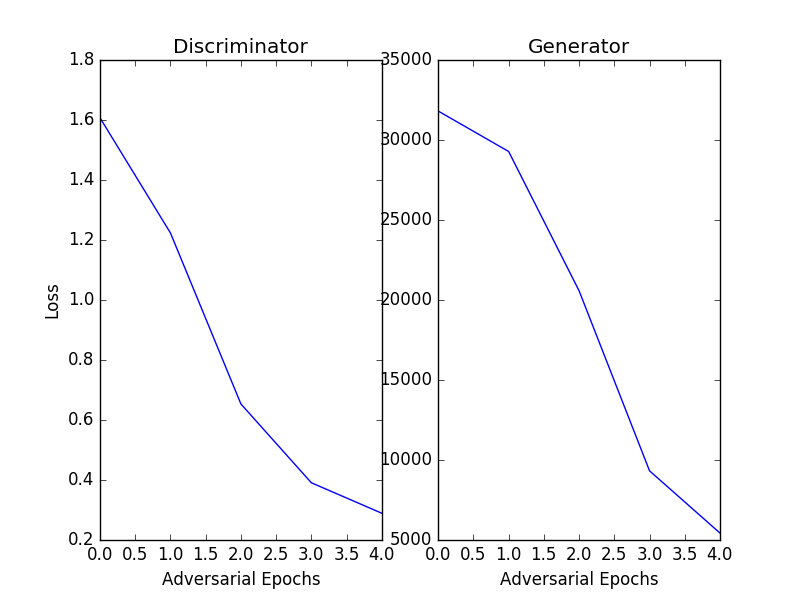
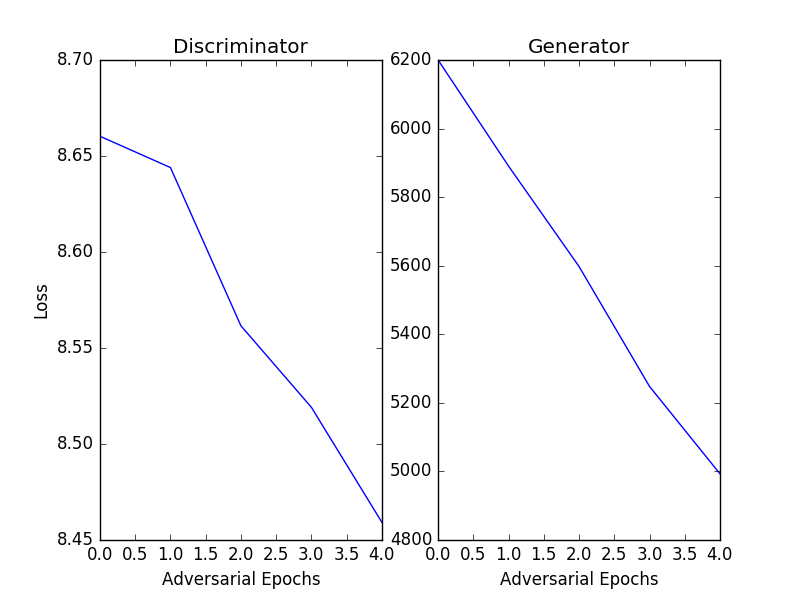
beam search, D regularization added

diff --git a/gan.py b/gan.py
@@ -6,22 +6,20 @@ import pickle
 import numpy as np
 from nn_tools import random_mini_batches
 
-ID_FILENAME = 'id_to_word_PUNC.pkl'
-X_FILENAME = 'train_x_PUNC.pkl'
-Y_FILENAME = 'train_y_PUNC.pkl'
+ID_FILENAME = 'id_to_word_OG.pkl'
+X_FILENAME = 'train_x_OG.pkl'
+Y_FILENAME = 'train_y_OG.pkl'
 
 #INITIAL DATA SPLITTING PARAMETERS
 POS_CUT_OFF = 288136
-
 ENTIRE_TRIM_SPLIT = 0.10
-
 PRE_POST_SPLIT = 0.33
 
 GENERATOR_TRAIN_TEST_SPLIT = 0.95
 DISCRIMINATOR_TRAIN_TEST_SPLIT = 0.95
 
 #GENERATOR HYPERPARAMETERS
-EMB_DIM = 100
+EMB_DIM = 5
 G_HIDDEN_UNITS = 100        #Hidden state dimension of lstm cell
 SEQ_LENGTH = 30
 START_TOKEN = 0
@@ -29,10 +27,11 @@ G_EPOCH_NUM = 5             #Pre-training epochs for G
 G_ROLLOUT_NUM = 16
 G_LEARNING_RATE = 1e-2
 G_PRE_BATCH_SIZE = 50
-G_PRE_SAMPLE_SIZE = 10000    #How many negative examples to pre-train D with
-G_ADV_SAMPLE_SIZE = 1000     #How many samples to train D with during adversarial training
+G_PRE_SAMPLE_SIZE = 1000    #How many negative examples to pre-train D with
+G_ADV_SAMPLE_SIZE = 100     #How many samples to train D with during adversarial training
 G_ADV_TEST_SIZE = 10        #How many samples to print every now and then
-VOCAB_SIZE = 5001
+VOCAB_SIZE = 5002
+BEAM_TARGET = 1000
 
 #DISCRIMINATOR HYPERPARAMETERS
 D_FILTER_SIZES = [1, 2, 3, 4, 5]
@@ -100,12 +99,12 @@ def format_samples(pos_samples, neg_samples):
     Y = np.concatenate((y_neg, y_pos))
     return X, Y
 
-def get_reward(samples, rollout_num, D, G):
+def get_reward(samples, rollout_num, beam, D, G):
     rewards = []
     for i in range(rollout_num):
         for t in range(1, SEQ_LENGTH):
             gen_samples = G.rollouts[t]
-            samples = G.sess.run(gen_samples, feed_dict={G.X: samples})
+            samples = G.sess.run(gen_samples, feed_dict={G.X: samples, G.beam_width: beam})
             ypred_for_auc = D.sess.run(tf.nn.softmax(D.Z4), feed_dict={D.X: samples})
             ypred = np.array([item[0] for item in ypred_for_auc])
             if i == 0:
@@ -180,7 +179,7 @@ def main():
     G.train(G_X_train, G_Y_train, G_X_test, G_Y_test)
     print("Finished training G. Started pre-training D.")
 
-    samples = G.sess.run(G.gen_examples, feed_dict={G.sample_size: G_PRE_SAMPLE_SIZE})
+    samples = G.sess.run(G.gen_examples, feed_dict={G.sample_size: G_PRE_SAMPLE_SIZE, G.beam_width: VOCAB_SIZE})
 
     #################################################################################
     #                         DISCRIMINATOR PRE-TRAINING                            #
@@ -207,18 +206,21 @@ def main():
 
     D_losses = []
     G_losses = []
+    beam_start = VOCAB_SIZE
+    beam_rate = int((VOCAB_SIZE - BEAM_TARGET)/TOTAL_BATCH)
     for total_batch in range(TOTAL_BATCH):
+        beam = beam_start - beam_rate*total_batch
         print "Total batch: %d" % total_batch
         # Train the generator for one step
-        samples = G.sess.run(G.gen_examples, feed_dict={G.sample_size: G_ADV_SAMPLE_SIZE})
-        rewards = get_reward(samples, G_ROLLOUT_NUM, D, G)
+        samples = G.sess.run(G.gen_examples, feed_dict={G.sample_size: G_ADV_SAMPLE_SIZE, G.beam_width: beam})
+        rewards = get_reward(samples, G_ROLLOUT_NUM, beam, D, G)
         _, loss = G.sess.run([G_update, G_loss], feed_dict={G.X: samples, G.rewards: rewards})
         G_losses.append(loss)
         print "Done training G. Loss: %s" % str(loss)
 
         # Test
         if total_batch % 5 == 0 or total_batch == TOTAL_BATCH - 1:
-            samples = G.sess.run(G.gen_examples, feed_dict={G.sample_size: G_ADV_TEST_SIZE})
+            samples = G.sess.run(G.gen_examples, feed_dict={G.sample_size: G_ADV_TEST_SIZE, G.beam_width: beam})
             print_samples(samples, index_to_word)
 
         # Train the discriminator
@@ -226,7 +228,7 @@ def main():
         X_train_full = []
         Y_train_full = []
         for k in range(5):
-            samples = G.sess.run(G.gen_examples, feed_dict={G.sample_size: G_ADV_SAMPLE_SIZE})
+            samples = G.sess.run(G.gen_examples, feed_dict={G.sample_size: G_ADV_SAMPLE_SIZE, G.beam_width: beam})
             pos = gen_pos_batch(X_pos_adv, G_ADV_SAMPLE_SIZE)
             X_train, Y_train = format_samples(pos, samples)
 
@@ -234,7 +236,7 @@ def main():
             X_train_full.append(X_train)
             Y_train_full.append(Y_train)
 
-        test_samples = G.sess.run(G.gen_examples, feed_dict={G.sample_size: G_ADV_SAMPLE_SIZE})
+        test_samples = G.sess.run(G.gen_examples, feed_dict={G.sample_size: G_ADV_SAMPLE_SIZE, G.beam_width: beam})
         pos = gen_pos_batch(X_pos_adv, G_ADV_SAMPLE_SIZE)
         X_test, Y_test = format_samples(pos, test_samples)
         X_train_full = np.concatenate(X_train_full)
@@ -243,6 +245,7 @@ def main():
 
         D_losses.append(loss)
         print "Done training D. D's Loss: %s" % str(loss)
+
 
     plt.subplot(1,2,1)
     plt.plot(np.squeeze(D_losses))

diff --git a/generator.py b/generator.py
@@ -34,6 +34,7 @@ class Generator:
         self.Y = tf.placeholder(tf.uint8, [None, self.seq_length, self.vocab_size], name="Y")
         self.rewards = tf.placeholder(tf.float32, [None, self.seq_length], name="rewards")
         self.sample_size = tf.placeholder(tf.int32, name="batch_size")
+        self.beam_width = tf.placeholder(tf.int32, name="beam_width")
 
         #embedding layer
         self.G_embed = tf.Variable(tf.random_uniform([self.vocab_size, self.embedding_size], -1.0, 1.0), name="We")
@@ -43,7 +44,7 @@ class Generator:
         self.Wo = tf.Variable(tf.random_normal([self.num_units, self.vocab_size], 0.1), name="Wo")
         self.bo = tf.Variable(tf.random_normal([self.vocab_size], 0.1), name="Wo")
 
-    def generate_examples(self, m):
+    def mle_sample(self, m):
         output = tf.zeros([m, self.embedding_size])
         outputs = []
         c_state = tf.zeros([m, self.lstm.state_size[0]])
@@ -96,8 +97,8 @@ class Generator:
 
         self.adv_loss, self.pg_update = self.policy_grad_update()
         #self.gen_examples = self.generate_examples(self.sampling_size)
-        self.gen_examples = self.rollout(0)
-        self.rollouts = [self.gen_examples] + [self.rollout(t) for t in range(1, self.seq_length)]
+        self.gen_examples = self.rollout(0, True)
+        self.rollouts = [self.gen_examples] + [self.rollout(t, True) for t in range(1, self.seq_length)]
 
         self.init = tf.global_variables_initializer()
         self.sess.run(self.init)
@@ -171,11 +172,11 @@ class Generator:
         grads_and_params = optimizer.compute_gradients(loss)
         (grads, params) = np.transpose(grads_and_params).tolist()
 
-        grads, _ = tf.clip_by_global_norm(grads, 5.0)
+        grads, _ = tf.clip_by_global_norm(grads, 10.0)
 
         return loss, optimizer.apply_gradients(zip(grads, params))
 
-    def rollout(self, start_t):
+    def rollout(self, start_t, beam=False):
         embedded_words = tf.nn.embedding_lookup(self.G_embed, self.X)
         X_emb = tf.transpose(embedded_words, perm=(1,0,2))
         X = tf.transpose(self.X)
@@ -197,6 +198,7 @@ class Generator:
         while t < self.seq_length:
             a, state = self.lstm(xt, state)
             z = tf.nn.softmax(self.output_layer(a))
+            z = self.beam_search(z) if beam else z
             next_token = tf.cast(tf.reshape(tf.multinomial(tf.log(z), 1), [m]), tf.int32)
             xt = tf.nn.embedding_lookup(self.G_embed, next_token)
             outputs.append(next_token)
@@ -204,6 +206,13 @@ class Generator:
 
         out = tf.stack(outputs)
         return tf.transpose(out)
+
+    def beam_search(self, z):
+        values, _ = tf.nn.top_k(z, self.beam_width)
+        cutoff = tf.tile(tf.expand_dims(tf.reduce_min(values, axis=1), -1), [1, tf.shape(z)[1]])
+        mask = tf.greater_equal(z, cutoff)
+        zeros = tf.zeros_like(z)
+        return tf.where(mask, z, zeros)
 
     def output_layer(self, a):
         return tf.matmul(a, self.Wo) + self.bo
@@ -226,6 +235,8 @@ def main():
     }
 
     G = Generator(hparams)
+    G.build_graph()
+
     X = pickle.load(open('train_x.pkl', 'rb'))
 
     X_train = X[:1000]
@@ -236,7 +247,7 @@ def main():
 
     G.train(X_train, Y_train, X_test, Y_test)
 
-    print G.generate_examples(5)
+    print G.mle_sample(5)
 
 
 if __name__=="__main__":

diff --git a/discriminator.py b/discriminator.py
@@ -142,8 +142,10 @@ class Discriminator:
         full_pool = tf.concat(pooled, 3)
         flat_pool = tf.reshape(full_pool, [-1, num_filters_total])
 
-        Z3 = tf.contrib.layers.fully_connected(flat_pool, self.fully_connected_size, activation_fn=tf.nn.relu)
-        Z4 = tf.contrib.layers.fully_connected(Z3, 2, activation_fn=None)
+        Z3 = tf.contrib.layers.fully_connected(flat_pool, self.fully_connected_size, activation_fn=tf.nn.relu,
+                                                weights_regularizer=tf.contrib.layers.l2_regularizer(0.2))
+        Z4 = tf.contrib.layers.fully_connected(Z3, 2, activation_fn=None,
+                                                weights_regularizer=tf.contrib.layers.l2_regularizer(0.2))
         return Z4
 
     def compute_cost(self):
